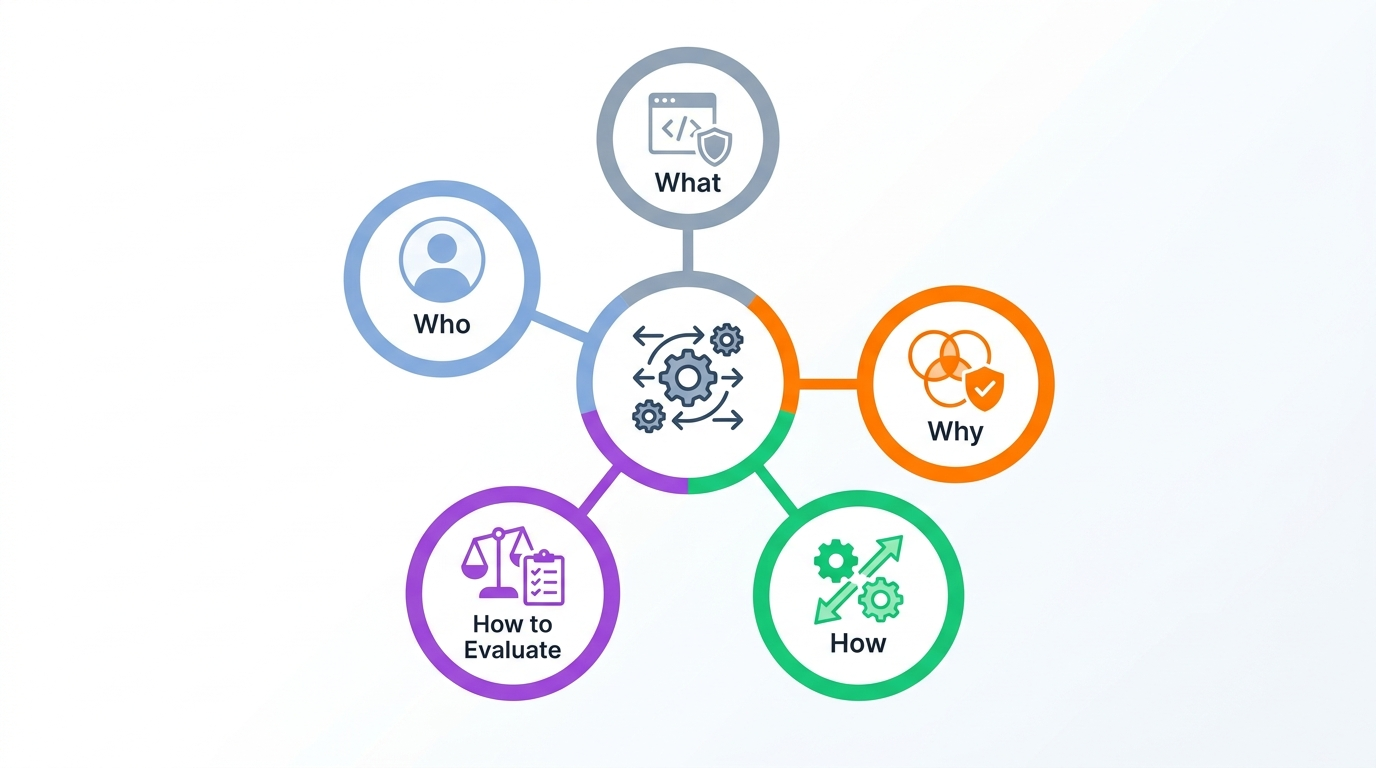
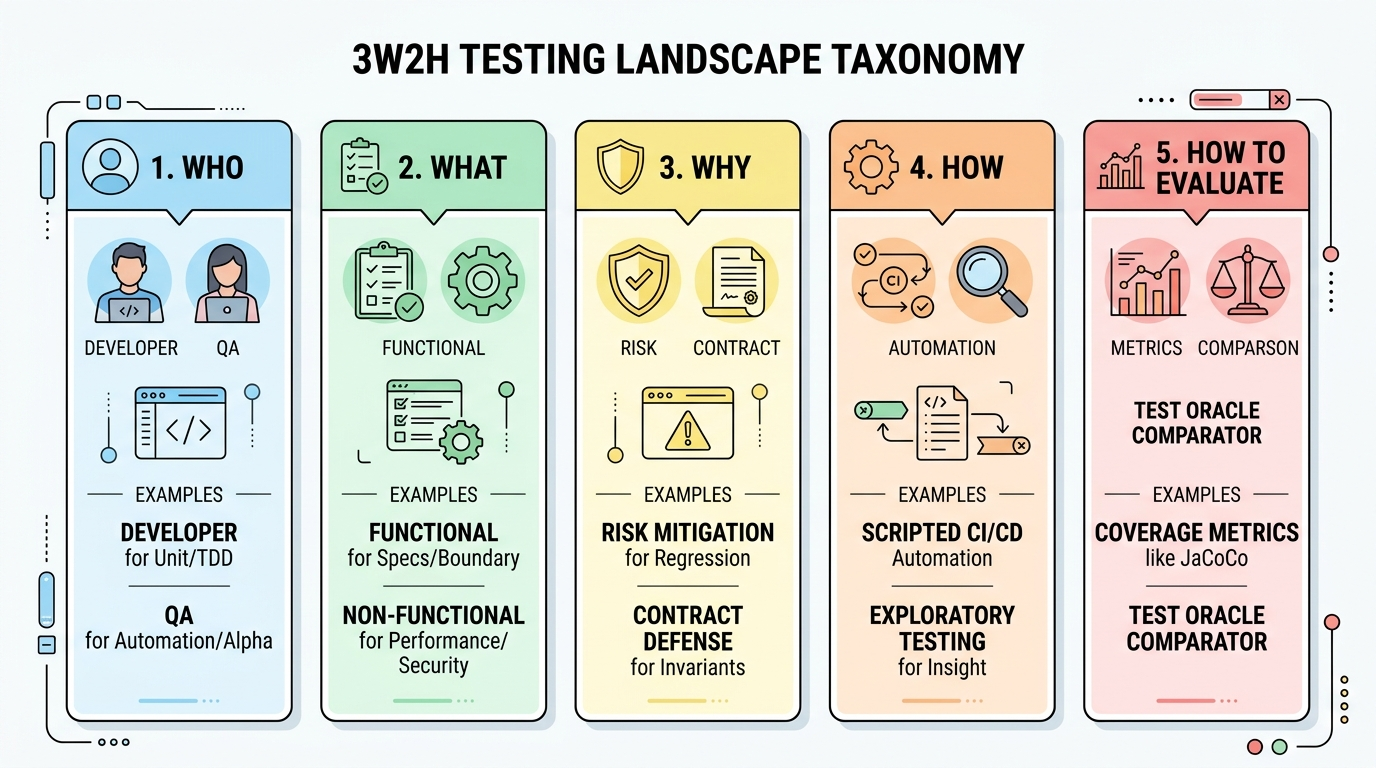
feat(ch03): refine DbC image labels, add V-Model with Coding, update 3W2H with 2 examples per category, and add Test Oracle comparator diagram

diff --git a/Lecture/ch03_testing.md b/Lecture/ch03_testing.md
@@ -293,12 +293,20 @@ double div(double x, double y) {
 
 ## 3.4 V 開發模型與雙向追溯 (The V-Model)
 
-<img src="../img/ch03/gemini_nb/vmodel.excalidraw.svg" width="550">
+<img src="../img/ch03/gemini_nb/v_model_sdlc_testing.jpg" width="650">
 
-* **需求分析 (SRS)** $\leftrightarrow$ **系統測試計畫 (System Test Plan) / 驗收測試**
-* **高階架構設計 (ADD)** $\leftrightarrow$ **整合測試計畫 (Integration Test Plan)**
-* **詳細模組設計 (SDD)** $\leftrightarrow$ **單元測試計畫 (Unit Test Plan)**
-* **核心價值**：**測試設計與開發規格同步前置產出**，避免「實作後測試偏差」。
+**圖形解說：V 開發模型與雙向追溯（Development & Testing Traceability）**
+*   **【左側下降臂（開發階段）】**：
+    1.  **Requirements Analysis (需求分析 - SRS)**：定義使用者與業務規格。
+    2.  **High-Level Architecture (高階架構設計 - ADD)**：定義子系統架構與介面協定。
+    3.  **Detailed Component Design (詳細模組設計 - SDD)**：定義單一類別與方法邏輯。
+*   **【底部頂點（程式實作）】**：
+    *   **Coding / Implementation (程式碼撰寫與建置)**：以 Java 等語言將設計轉化為可執行之原始程式碼產物。
+*   **【右側上升臂（測試驗證）】**：
+    1.  **Unit Testing (單元測試)**：直接對應並驗證左側的「詳細模組設計 (SDD)」。
+    2.  **Integration Testing (整合測試)**：直接對應並驗證左側的「高階架構設計 (ADD)」。
+    3.  **Acceptance / System Testing (系統與驗收測試)**：直接對應並驗證左側的「需求規格 (SRS)」。
+*   **核心價值**：**測試設計與開發規格同步前置產出（水平雙向追溯線）**，避免「實作後測試偏差」。
 
 #### **概念核對問答 (CCQ 3)**
 
@@ -383,7 +391,24 @@ D) 靜態程式碼檢視 (Code Review)
 
 ## 3.6 測試全景 3W2H 分類體系
 
-<img src="../img/ch03/gemini_nb/testing_landscape_3w2h.jpg" width="550">
+<img src="../img/ch03/gemini_nb/testing_landscape_3w2h.jpg" width="650">
+
+**圖形解說：測試全景 3W2H 分類體系與典型案例**
+1.  **1. WHO（誰來測試）**：
+    *   *案例 1（開發者）*：**Developer** 負責撰寫 Unit Tests 與 TDD 測試。
+    *   *案例 2（品保團隊）*：**QA Engineer** 負責建置自動化框架與執行 Alpha Testing。
+2.  **2. WHAT（測什麼）**：
+    *   *案例 1（功能面）*：**Functional** 驗證規格邏輯、輸入欄位與邊界條件。
+    *   *案例 2（非功能面）*：**Non-Functional** 檢驗效能負載 (Performance) 與資安防禦 (Security)。
+3.  **3. WHY（為何測試）**：
+    *   *案例 1（風險緩解）*：**Risk Mitigation** 透過回歸測試 (Regression) 確保新變更不破壞既有功能。
+    *   *案例 2（防禦合約）*：**Contract Defense** 驗證前置條件與狀態不變量 (Invariants)。
+4.  **4. HOW（如何測試）**：
+    *   *案例 1（自動化腳本）*：**Scripted CI/CD** 依據預定義斷言在管線中自動執行。
+    *   *案例 2（探索性測試）*：**Exploratory Testing** 依賴專家直覺與經驗動態挖掘邊界弱點。
+5.  **5. HOW TO EVALUATE（如何評估通過）**：
+    *   *案例 1（覆蓋率度量）*：**Coverage Metrics** 透過 JaCoCo 計算行涵蓋與分支涵蓋率。
+    *   *案例 2（測試預言機比對）*：**Test Oracle Comparator** 檢驗實際輸出與預期結果的一致性。
 
 ### 面向一：Who 誰來測試？
 * **開發工程師**：單元測試 (Unit Test)、TDD。
@@ -434,20 +459,15 @@ D) 靜態程式碼檢視 (Code Review)
 * **變異分數 (Mutation Score)**：使用 PIT 注入故障，檢驗測試套件殺死變異體的能力。
 * **啟發式一致性檢驗**：與使用者期望一致、與同類競品一致、與產品風格一致。
 
-```mermaid
-graph LR
-    Input["測試輸入<br>(Test Inputs)"] --> PUT["受測程式<br>(Program Under Test)"]
-    Input --> Oracle["測試預言機<br>(Test Oracle / Spec)"]
-    
-    PUT --> Actual["實際結果<br>(Actual Outcome)"]
-    Oracle --> Expected["預期結果<br>(Expected Outcome)"]
-    
-    Actual --> Comp{"比對與驗證<br>(Comparator)"}
-    Expected --> Comp
-    
-    Comp -->|結果一致| Pass["✅ Pass 通過"]
-    Comp -->|結果不符| Fail["❌ Fail 判定缺陷"]
-```
+<img src="../img/ch03/gemini_nb/test_oracle_comparator.jpg" width="650">
+
+**圖形解說：Test Oracle Comparator（測試預言機與比對器架構）**
+*   **輸入分流 (Test Inputs)**：同一組測試輸入同時餵入兩條並行路徑：
+    1.  **受測程式 (Program Under Test - PUT)** ➔ 產生「實際執行結果 (Actual Outcome)」。
+    2.  **測試預言機 (Test Oracle / Specification)** ➔ 產生「理論預期結果 (Expected Outcome)」。
+*   **比對仲裁 (Comparator / Assertion Engine)**：由斷言引擎（如 JUnit `assertEquals`）比對兩者：
+    *   **Match (一致)** ➔ 判定測試 **PASS（通過 ✅）**。
+    *   **Mismatch (不符)** ➔ 判定測試 **FAIL（缺陷判定 ❌）**。
 
 #### 🔮 3.6.5 Test Oracle（測試預言機）難題在 AI 與複雜系統中的爆發
 
